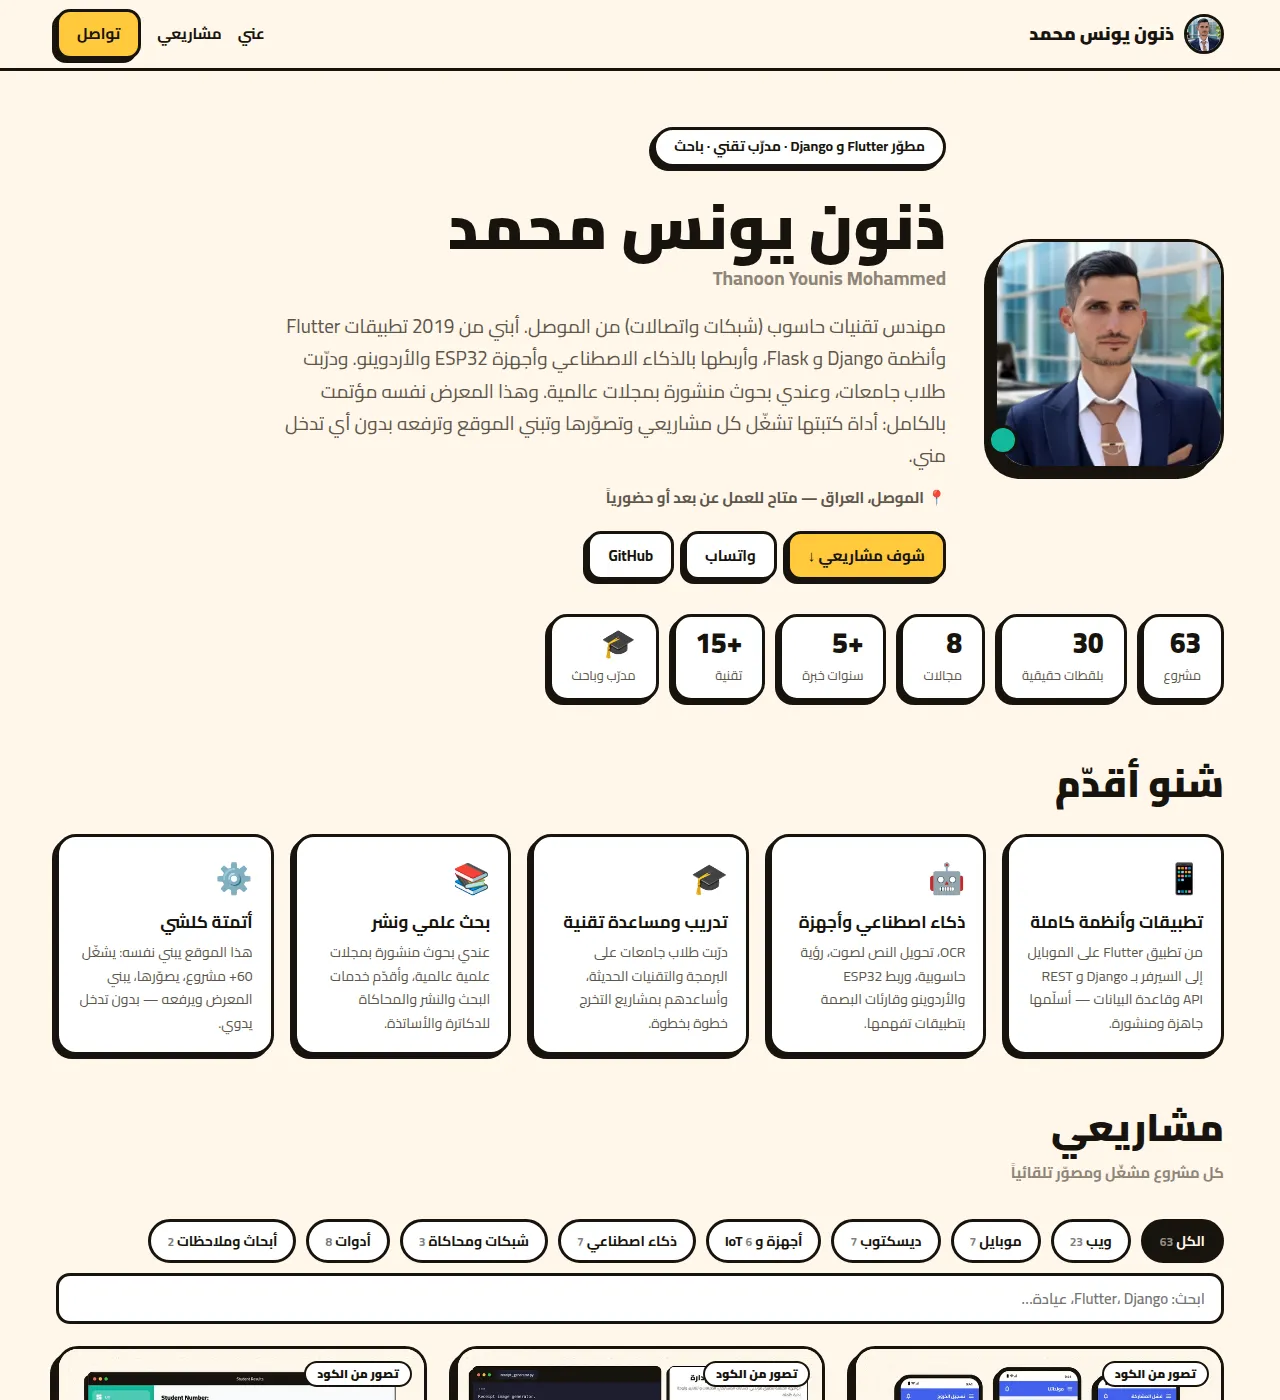
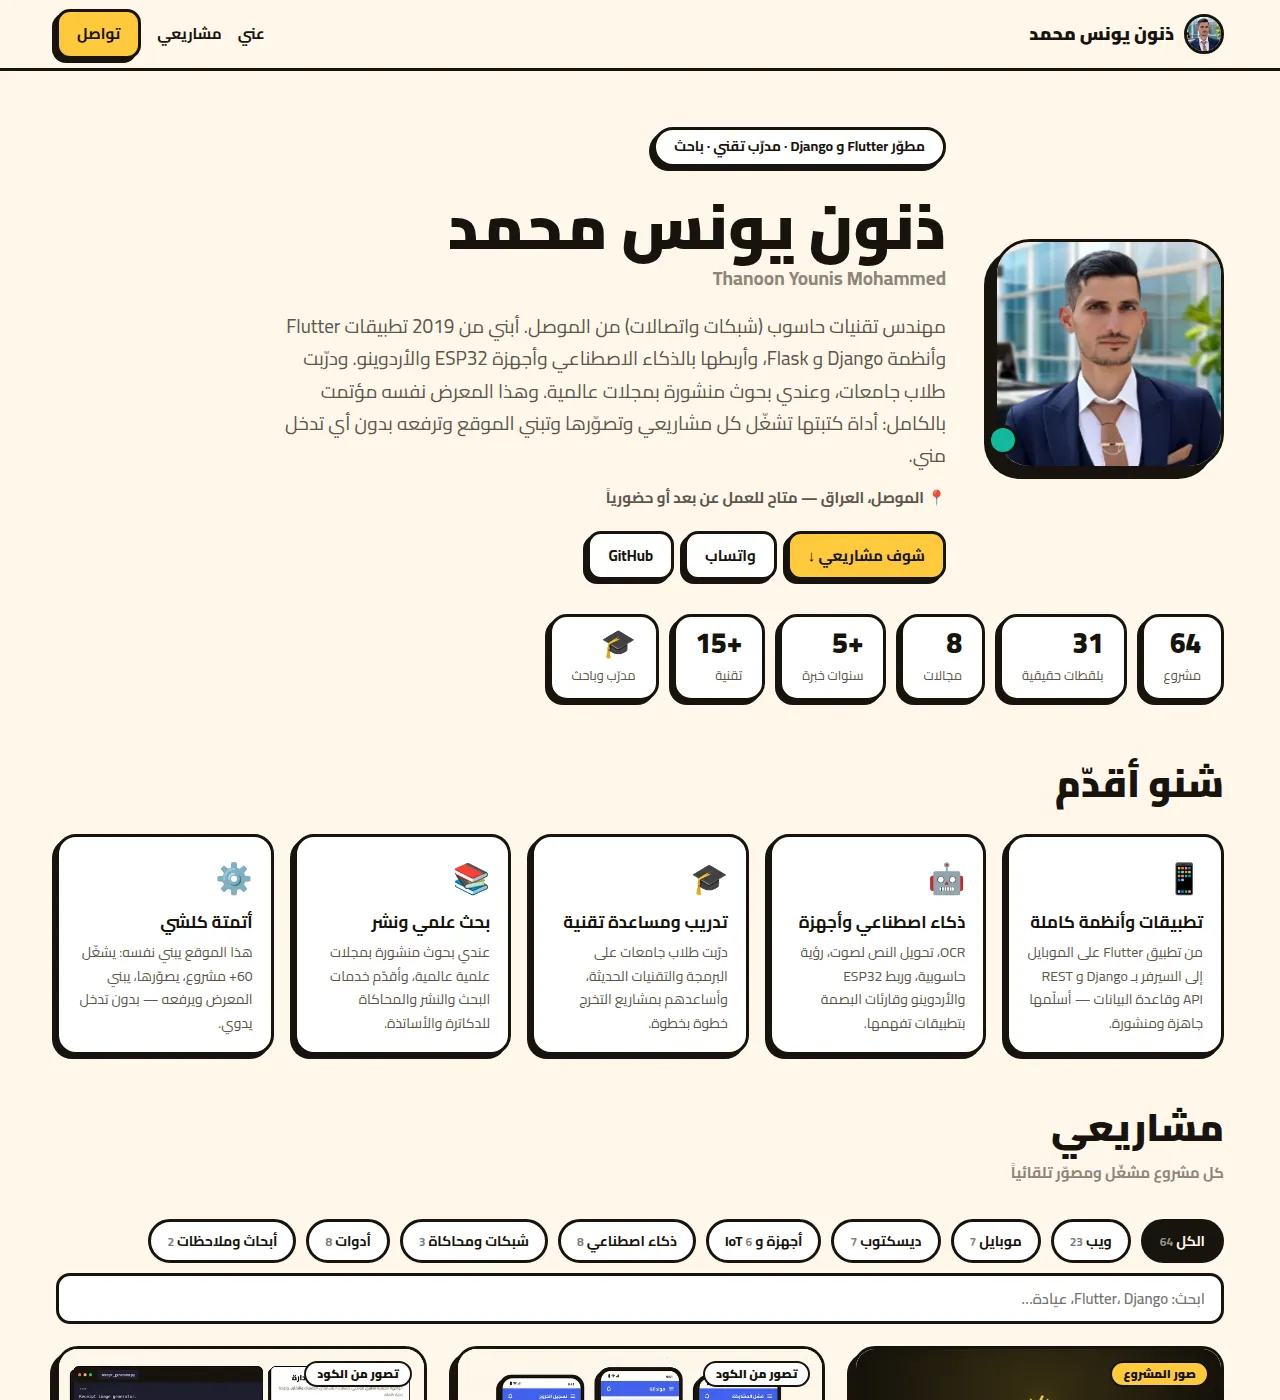
Add self-running Golden Code Facebook page, admin fix
Claude-Session: https://claude.ai/code/session_01GrBvuno8mFSAJEdRgogWzb

diff --git a/showcase/server.py b/showcase/server.py
@@ -503,7 +503,7 @@ async function post(url, fd){fd.append('csrf',CSRF);const r=await fetch(url,{met
 function msg(el,t,ok){el.textContent=t;el.className='msg '+(ok?'ok':'bad')}
 async function load(keep){P=await (await fetch('/admin/api/projects')).json();
  const s=$('#slug');s.innerHTML='<option value="__new__">➕ مشروع جديد</option>'+P.map(p=>`<option value="${p.slug}">${p.title.replace(/</g,'&lt;')}${p.hidden?' (مخفي)':''}</option>`).join('');
- s.value=keep||'__new__';fill()}
+ s.value=keep||(P[0]&&P[0].slug)||'__new__';fill()}
 function fill(){const p=P.find(x=>x.slug===$('#slug').value);
  F.forEach(k=>$('#'+k).value=p?(Array.isArray(p[k])?p[k].join(', '):(p[k]??'')):(k==='cat'?'web':''));
  $('#hidden').checked=!!(p&&p.hidden);
@@ -540,10 +540,10 @@ $('#pwBtn').onclick=async()=>{const fd=new FormData();fd.append('old',$('#pw_old
 const MEF=['name','name_en','role','location','bio','email','languages','education'];
 async function loadMe(){const m=await (await fetch('/admin/api/profile')).json();
  MEF.forEach(k=>$('#me_'+k).value=m[k]||'');$('#me_ph').src='/'+(m.photo||'favicon.svg');
- $('#me_experience').value=(m.experience||[]).map(x=>[x.title,x.years,x.text].join(' | ')).join('\n');
- $('#me_training').value=(m.training||[]).join('\n');
- $('#me_highlights').value=(m.highlights||[]).map(x=>[x.icon,x.title,x.text].join(' | ')).join('\n');$('#me_skills').value=(m.skills||[]).join(', ');
- $('#me_stats').value=(m.stats||[]).map(x=>x.join(' | ')).join('\n')}
+ $('#me_experience').value=(m.experience||[]).map(x=>[x.title,x.years,x.text].join(' | ')).join('\\n');
+ $('#me_training').value=(m.training||[]).join('\\n');
+ $('#me_highlights').value=(m.highlights||[]).map(x=>[x.icon,x.title,x.text].join(' | ')).join('\\n');$('#me_skills').value=(m.skills||[]).join(', ');
+ $('#me_stats').value=(m.stats||[]).map(x=>x.join(' | ')).join('\\n')}
 $('#me_photo').onchange=e=>{const f=e.target.files[0];if(f)$('#me_ph').src=URL.createObjectURL(f)};
 $('#meBtn').onclick=async()=>{const fd=new FormData();MEF.forEach(k=>fd.append(k,$('#me_'+k).value));
  ['experience','training','skills','stats','highlights'].forEach(k=>fd.append(k,$('#me_'+k).value));

diff --git a/showcase/cli.py b/showcase/cli.py
@@ -86,7 +86,7 @@ def shoot_one(cfg, browser, slug, path, url, over):
     t0 = time.time()
     p = detect.detect(path, slug)
     p.update({k: v for k, v in over.items() if not k.startswith('_')})
-    p['repo'] = url
+    p['repo'] = '' if over.get('private') else url
     p['updated'] = last_commit(path)
     outdir = os.path.join(cfg['_out'], 'shots', slug)
     shutil.rmtree(outdir, ignore_errors=True)
@@ -102,7 +102,19 @@ def shoot_one(cfg, browser, slug, path, url, over):
     if not shots and p['primary'] in ('django', 'flask', 'fastapi'):
         shots += capture.render_templates(p, path, outdir, browser)
         print('    templates: %d' % len(shots))
-    repo_imgs = assets.collect(p, path, outdir, remote=cfg.get('download_readme_images', True))
+    repo_imgs = []
+    for i, rel in enumerate(over.get('images', [])):      # hand-picked pictures from config
+        src = os.path.join(path, rel)
+        if os.path.isfile(src):
+            from PIL import Image
+            name = 'pick%02d.png' % (i + 1)
+            im = Image.open(src).convert('RGB')
+            im.save(os.path.join(outdir, name))
+            repo_imgs.append({'file': name, 'kind': 'repo', 'caption': os.path.basename(rel),
+                              'device': 'desktop'})
+    if not repo_imgs:
+        repo_imgs = assets.collect(p, path, outdir,
+                                   remote=cfg.get('download_readme_images', True))
     if repo_imgs:
         print('    repo images: %d' % len(repo_imgs))
     shots += repo_imgs

diff --git a/showcase/assets.py b/showcase/assets.py
@@ -81,7 +81,8 @@ def collect(project, root, outdir, max_images=6, remote=True):
     for d, dirs, files in os.walk(root):
         dirs[:] = [x for x in dirs if x not in SKIP_DIRS and not x.startswith('.')
                    and x not in ('android', 'ios', 'windows', 'macos', 'linux', 'static',
-                                 'public', 'node_modules', 'res', 'mipmap')]
+                                 'public', 'node_modules', 'res', 'mipmap')
+                   and not os.path.exists(os.path.join(d, x, '.git'))]
         for fn in files:
             if fn.lower().endswith(IMG_EXT) and not BAD_NAME.search(fn):
                 p = os.path.join(d, fn)
@@ -94,7 +95,8 @@ def collect(project, root, outdir, max_images=6, remote=True):
     # 3. plots saved inside notebooks
     if 'notebook' in project['kinds'] and len(shots) < max_images:
         for d, dirs, files in os.walk(root):
-            dirs[:] = [x for x in dirs if x not in SKIP_DIRS and not x.startswith('.')]
+            dirs[:] = [x for x in dirs if x not in SKIP_DIRS and not x.startswith('.')
+                       and not os.path.exists(os.path.join(d, x, '.git'))]
             for fn in files:
                 if not fn.endswith('.ipynb'):
                     continue

diff --git a/showcase/capture.py b/showcase/capture.py
@@ -503,7 +503,8 @@ def render_templates(project, repo_dir, outdir, browser, limit=4):
     tpl_dirs, static_dirs = [], []
     for d, dirs, files in os.walk(repo_dir):
         dirs[:] = [x for x in dirs if x not in ('node_modules', '.git', 'venv', '.venv',
-                                                '__pycache__', 'site-packages')]
+                                                '__pycache__', 'site-packages', 'out')
+                   and not os.path.exists(os.path.join(d, x, '.git'))]
         base = os.path.basename(d)
         if base == 'templates':
             tpl_dirs.append(d)

diff --git a/showcase/detect.py b/showcase/detect.py
@@ -49,8 +49,13 @@ def walk(root):
     for d, dirs, files in os.walk(root):
         depth = d.count(os.sep) - base
         dirs[:] = [x for x in dirs if x not in SKIP_DIRS and not x.startswith('.')
-                   and depth < MAX_DEPTH]
+                   and depth < MAX_DEPTH and not nested_repo(os.path.join(d, x))]
         yield d, files
+
+
+def nested_repo(d):
+    """A folder that is its own git repo (e.g. clones inside out/) belongs to another project."""
+    return os.path.exists(os.path.join(d, '.git'))
 
 
 def read(path, limit=200_000):

diff --git a/showcase/mockup.py b/showcase/mockup.py
@@ -24,7 +24,7 @@ def pick_color(slug):
 def files(root, exts, skip=()):
     for d, dirs, fs in os.walk(root):
         dirs[:] = [x for x in dirs if x not in SKIP_DIRS and not x.startswith('.')
-                   and x not in skip]
+                   and x not in skip and not os.path.exists(os.path.join(d, x, '.git'))]
         for f in fs:
             if f.lower().endswith(exts):
                 yield os.path.join(d, f)

diff --git a/README.md b/README.md
@@ -5,8 +5,8 @@
 <img src="docs/banner-light.png" width="100%" alt="Thanoon Younis Mohammed"></picture></a>
 
 <a href="https://make1it.pythonanywhere.com"><img src="https://img.shields.io/badge/Live_site-make1it.pythonanywhere.com-FFC93C?style=for-the-badge&labelColor=16130D" alt="Live site"></a>
-<br><img src="https://img.shields.io/badge/projects-63-12B99C?style=flat-square" alt="">
- <img src="https://img.shields.io/badge/real_screenshots-30-4361EE?style=flat-square" alt="">
+<br><img src="https://img.shields.io/badge/projects-64-12B99C?style=flat-square" alt="">
+ <img src="https://img.shields.io/badge/real_screenshots-31-4361EE?style=flat-square" alt="">
  <img src="https://img.shields.io/badge/categories-8-FF5C39?style=flat-square" alt="">
  <a href="https://wa.me/9647702790915"><img src="https://img.shields.io/badge/WhatsApp-contact-25D366?style=flat-square&logo=whatsapp&logoColor=white" alt="WhatsApp"></a>
  <a href="mailto:engthanoon1@gmail.com"><img src="https://img.shields.io/badge/Email-engthanoon1%40gmail.com-EA4335?style=flat-square&logo=gmail&logoColor=white" alt="Email"></a>
@@ -51,21 +51,21 @@
 
 
 <p align="center">
+<a href="#" title="صفحة الكود الذهبي — تدير نفسها"><img src="docs/projects/facebook-automation.webp" width="49%" alt="Golden Code — Self-running Facebook page"></a>
 <a href="https://github.com/Thanoon12k/moalidaty-front-end" title="مولدتي"><img src="docs/projects/moalidaty-front-end.webp" width="49%" alt="Moalidaty Front End"></a>
 <a href="https://github.com/Thanoon12k/moalidaty" title="مولدتي — السيرفر ولوحة الإدارة"><img src="docs/projects/moalidaty.webp" width="49%" alt="Moalidaty"></a>
 <a href="https://github.com/Thanoon12k/BubbleSheetScanner" title="ببل شيت سكنر"><img src="docs/projects/BubbleSheetScanner.webp" width="49%" alt="Bubble Sheet Scanner"></a>
 <a href="https://github.com/Thanoon12k/Employee-Manager" title="إدارة موظفين الدائرة"><img src="docs/projects/Employee-Manager.webp" width="49%" alt="Employee Manager App"></a>
 <a href="https://github.com/Thanoon12k/Pediatric-Clinic-manager" title="عيادتي — إدارة عيادة أطفال"><img src="docs/projects/Pediatric-Clinic-manager.webp" width="49%" alt="عيادتي – Pediatric Clinic Manager"></a>
-<a href="https://github.com/Thanoon12k/flutter-arduino-based-syringe-pump" title="مضخة الحقنة الطبية الذكية"><img src="docs/projects/flutter-arduino-based-syringe-pump.webp" width="49%" alt="مضخة الحقنة الطبية الذكية | Smart Medical Syringe Pump"></a>
 </p>
 
 
+- 🤖 **[صفحة الكود الذهبي — تدير نفسها](https://make1it.pythonanywhere.com)** <sub>Golden Code — Self-running Facebook page</sub> — `Python` · `Graph API` · `MCP` · `AI Agent`
 - 📱 **[مولدتي](https://github.com/Thanoon12k/moalidaty-front-end)** <sub>Moalidaty Front End</sub> — `Flutter`
 - 🌐 **[مولدتي — السيرفر ولوحة الإدارة](https://github.com/Thanoon12k/moalidaty)** <sub>Moalidaty</sub> — `Django` · `DRF`
 - 🖥 **[ببل شيت سكنر](https://github.com/Thanoon12k/BubbleSheetScanner)** <sub>Bubble Sheet Scanner</sub> — `OpenCV` · `pandas` · `Python desktop` · `Tkinter`
 - 📱 **[إدارة موظفين الدائرة](https://github.com/Thanoon12k/Employee-Manager)** <sub>Employee Manager App</sub> — `Flutter`
 - 📱 **[عيادتي — إدارة عيادة أطفال](https://github.com/Thanoon12k/Pediatric-Clinic-manager)** <sub>عيادتي – Pediatric Clinic Manager</sub> — `Flutter`
-- 🔌 **[مضخة الحقنة الطبية الذكية](https://github.com/Thanoon12k/flutter-arduino-based-syringe-pump)** <sub>مضخة الحقنة الطبية الذكية | Smart Medical Syringe Pump</sub> — `Arduino` · `Flutter`
 
 
 ---
@@ -211,10 +211,11 @@
 
 
 <details>
-<summary><h3>🤖 AI — 7</h3></summary>
+<summary><h3>🤖 AI — 8</h3></summary>
 
 
 <p align="center">
+<a href="#" title="صفحة الكود الذهبي — تدير نفسها"><img src="docs/projects/facebook-automation.webp" width="32%" alt="Golden Code — Self-running Facebook page"></a>
 <a href="https://github.com/Thanoon12k/green-chrome-notes" title="ملاحظات ذكية — إضافة كروم"><img src="docs/projects/green-chrome-notes.webp" width="32%" alt="🌿 AI Notes — Smart Tab Capture"></a>
 <a href="https://github.com/Thanoon12k/Arabic-Text-To-Audio-Converter" title="تحويل النص العربي إلى صوت"><img src="docs/projects/Arabic-Text-To-Audio-Converter.webp" width="32%" alt="Arabic Text‑To‑Audio Converter (Flask + Tailwind)"></a>
 <a href="https://github.com/Thanoon12k/Social-Media-Automation" title="مدير صفحات السوشيال ميديا"><img src="docs/projects/Social-Media-Automation.webp" width="32%" alt="Social Media Automation"></a>
@@ -225,6 +226,7 @@
 </p>
 
 
+- **[صفحة الكود الذهبي — تدير نفسها](https://make1it.pythonanywhere.com)** <sub>Golden Code — Self-running Facebook page</sub> — `Python` · `Graph API` · `MCP` · `AI Agent`<br><sub dir="auto">صفحة فيسبوك مؤتمتة بالكامل: تصميم كروت المنشورات يتولّد تلقائياً بالكود، النشر والجدولة عبر Graph API من خلال وكيل ذكاء اصطناعي، ومتابعة…</sub>
 - **[ملاحظات ذكية — إضافة كروم](https://github.com/Thanoon12k/green-chrome-notes)** <sub>🌿 AI Notes — Smart Tab Capture</sub> — `Browser extension`<br><sub dir="auto">&gt; A premium Chrome extension powered by Groq AI to capture, organize, and tag notes from any browser tab.</sub>
 - **[تحويل النص العربي إلى صوت](https://github.com/Thanoon12k/Arabic-Text-To-Audio-Converter)** <sub>Arabic Text‑To‑Audio Converter (Flask + Tailwind)</sub> — `Excel` · `Flask` · `video`<br><sub dir="auto">Arabic Text‑To‑Audio Converter is a modern, login‑free web app that converts Arabic (and English) text into high‑quality MP3 audio. It’s…</sub>
 - **[مدير صفحات السوشيال ميديا](https://github.com/Thanoon12k/Social-Media-Automation)** <sub>Social Media Automation</sub> — `Django`<br><sub dir="auto">ينشر ويجدول المنشورات على صفحات التواصل من داخل السيرفر، ويدعم الربط بوكيل ذكاء اصطناعي يدير المحتوى والردود.</sub>
